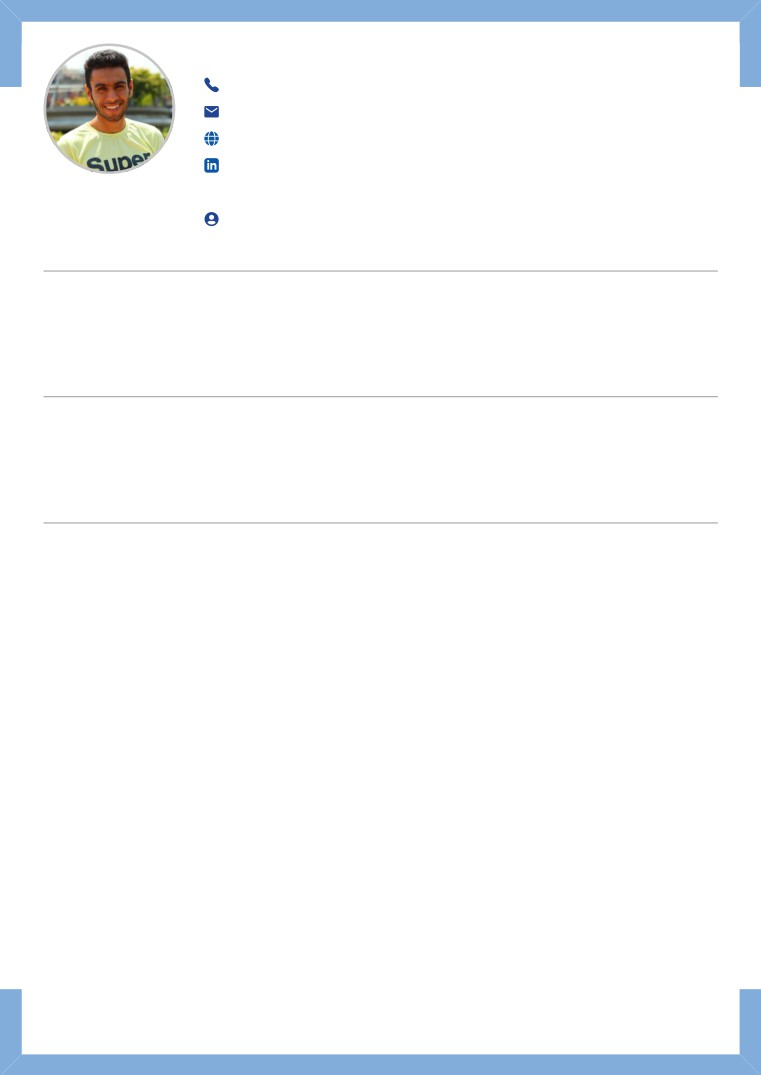
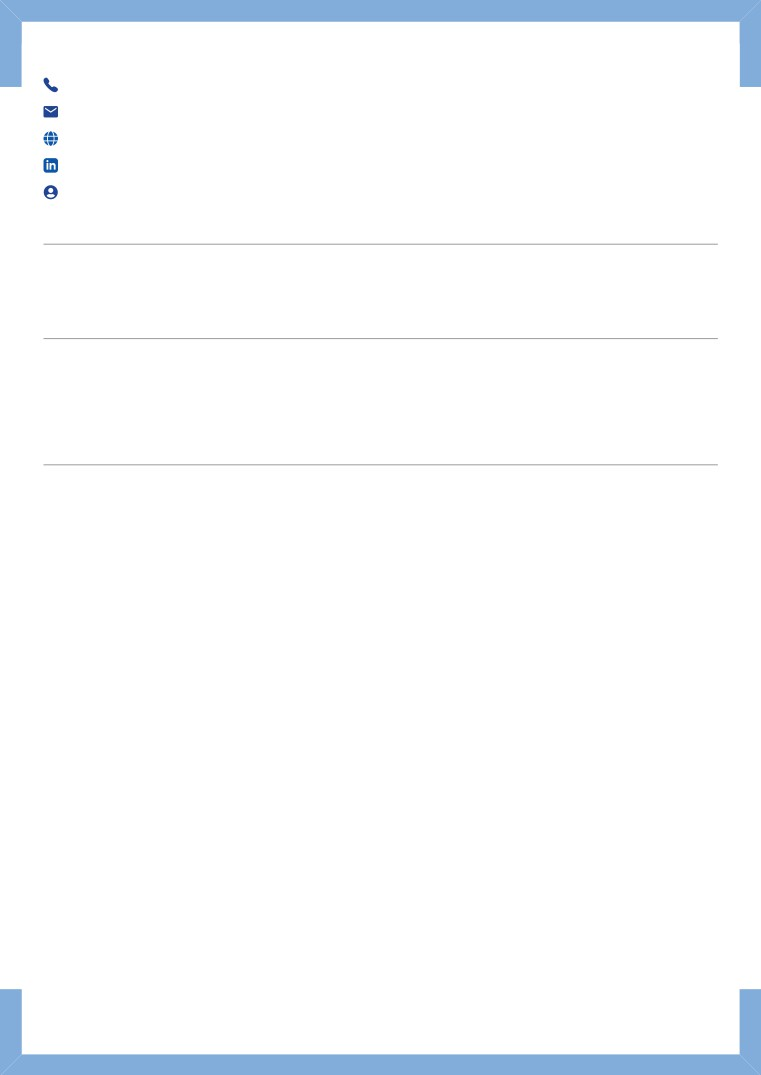
update template

Changed region(s): [[0.0604, 0.0307, 0.2418, 0.1842], [0.272, 0.0614, 0.3022, 0.2149]]

diff --git a/index.html b/index.html
@@ -8,8 +8,8 @@ span.cls_004{font-family:Arial,serif;font-size:10.6px;color:rgb(86,86,86);font-w
 div.cls_004{font-family:Arial,serif;font-size:10.6px;color:rgb(86,86,86);font-weight:normal;font-style:normal;text-decoration: none}
 span.cls_005{font-family:Arial,serif;font-size:10.6px;color:rgb(86,86,86);font-weight:bold;font-style:normal;text-decoration: none}
 div.cls_005{font-family:Arial,serif;font-size:10.6px;color:rgb(86,86,86);font-weight:bold;font-style:normal;text-decoration: none}
-span.cls_015{font-family:Arial,serif;font-size:10.6px;color:rgb(86,86,86);font-weight:normal;font-style:normal;text-decoration: underline}
-div.cls_015{font-family:Arial,serif;font-size:10.6px;color:rgb(86,86,86);font-weight:normal;font-style:normal;text-decoration: none}
+span.cls_014{font-family:Arial,serif;font-size:10.6px;color:rgb(86,86,86);font-weight:normal;font-style:normal;text-decoration: underline}
+div.cls_014{font-family:Arial,serif;font-size:10.6px;color:rgb(86,86,86);font-weight:normal;font-style:normal;text-decoration: none}
 span.cls_002{font-family:Arial,serif;font-size:12.1px;color:rgb(11,86,165);font-weight:bold;font-style:normal;text-decoration: none}
 div.cls_002{font-family:Arial,serif;font-size:12.1px;color:rgb(11,86,165);font-weight:bold;font-style:normal;text-decoration: none}
 span.cls_006{font-family:Arial,serif;font-size:12.1px;color:rgb(11,86,165);font-weight:normal;font-style:normal;text-decoration: none}
@@ -20,14 +20,12 @@ span.cls_008{font-family:Arial,serif;font-size:10.6px;color:rgb(102,102,102);fon
 div.cls_008{font-family:Arial,serif;font-size:10.6px;color:rgb(102,102,102);font-weight:normal;font-style:normal;text-decoration: none}
 span.cls_009{font-family:Arial,serif;font-size:10.6px;color:rgb(102,102,102);font-weight:bold;font-style:normal;text-decoration: none}
 div.cls_009{font-family:Arial,serif;font-size:10.6px;color:rgb(102,102,102);font-weight:bold;font-style:normal;text-decoration: none}
-span.cls_014{font-family:Arial,serif;font-size:10.6px;color:rgb(17,84,204);font-weight:normal;font-style:normal;text-decoration: underline}
-div.cls_014{font-family:Arial,serif;font-size:10.6px;color:rgb(17,84,204);font-weight:normal;font-style:normal;text-decoration: none}
+span.cls_013{font-family:Arial,serif;font-size:10.6px;color:rgb(17,84,204);font-weight:normal;font-style:normal;text-decoration: underline}
+div.cls_013{font-family:Arial,serif;font-size:10.6px;color:rgb(17,84,204);font-weight:normal;font-style:normal;text-decoration: none}
 span.cls_011{font-family:Arial,serif;font-size:10.6px;color:rgb(66,66,66);font-weight:normal;font-style:normal;text-decoration: none}
 div.cls_011{font-family:Arial,serif;font-size:10.6px;color:rgb(66,66,66);font-weight:normal;font-style:normal;text-decoration: none}
 span.cls_012{font-family:"DejaVu Sans",serif;font-size:7.5px;color:rgb(130,172,216);font-weight:normal;font-style:normal;text-decoration: none}
 div.cls_012{font-family:"DejaVu Sans",serif;font-size:7.5px;color:rgb(130,172,216);font-weight:normal;font-style:normal;text-decoration: none}
-span.cls_013{font-family:Arial,serif;font-size:10.6px;color:rgb(79,75,72);font-weight:normal;font-style:normal;text-decoration: none}
-div.cls_013{font-family:Arial,serif;font-size:10.6px;color:rgb(79,75,72);font-weight:normal;font-style:normal;text-decoration: none}
 -->
 </style>
 <script type="text/javascript" src="files/wz_jsgraphics.js"></script>
@@ -36,138 +34,68 @@ div.cls_013{font-family:Arial,serif;font-size:10.6px;color:rgb(79,75,72);font-we
 <div style="position:absolute;left:50%;margin-left:-297px;top:0px;width:595px;height:841px;border-style:outset;overflow:hidden">
 <div style="position:absolute;left:0px;top:0px">
 <img src="files/background1.jpg" width=595 height=841></div>
-<div style="position:absolute;left:159.76px;top:31.20px" class="cls_003"><span class="cls_003">Mohammaderfan Arefimoghaddam</span></div>
-<div style="position:absolute;left:173.93px;top:59.05px" class="cls_004"><span class="cls_004">(+98) 9211686115</span></div>
-<div style="position:absolute;left:173.93px;top:80.05px" class="cls_005"><span class="cls_005">Email address:</span><span class="cls_004"> </span><span class="cls_015">marefimoghaddam@unixerr.com</span></div>
-<div style="position:absolute;left:173.93px;top:101.05px" class="cls_005"><span class="cls_005">Website:</span><span class="cls_004"> </span><A HREF="https://unixerr.com/">https://unixerr.com</A> </span></div>
-<div style="position:absolute;left:173.93px;top:122.05px" class="cls_005"><span class="cls_005">LinkedIn :</span><span class="cls_004"> </span><A HREF="https://www.linkedin.com/in/mohammaderfan-/">https://www.linkedin.com/in/mohammaderfan-arefimoghaddam-750009121</A> </span></div>
-<div style="position:absolute;left:173.93px;top:164.05px" class="cls_005"><span class="cls_005">Github: </span><span class="cls_004"> </span><A HREF="https://github.com/wildonion/">https://github.com/wildonion</A> </span></div>
-<div style="position:absolute;left:34.02px;top:196.41px" class="cls_002"><span class="cls_002">EDUCATION AND TRAINING</span></div>
-<div style="position:absolute;left:34.02px;top:221.70px" class="cls_006"><span class="cls_006">B.Sci. in Computer Science</span></div>
-<div style="position:absolute;left:34.02px;top:236.61px" class="cls_005"><span class="cls_005">University of Mazandaran, Babolsar, Iran</span><span class="cls_004"> [ 2015 - 2020 ]</span></div>
-<div style="position:absolute;left:34.02px;top:266.33px" class="cls_004"><span class="cls_004">CGPA: 14.33/20</span></div>
-<div style="position:absolute;left:34.02px;top:294.74px" class="cls_002"><span class="cls_002">RESEARCH INTERESTS</span></div>
-<div style="position:absolute;left:34.02px;top:320.29px" class="cls_007"><span class="cls_007">Applied AI</span></div>
-<div style="position:absolute;left:55.87px;top:338.82px" class="cls_004"><span class="cls_004">◦ </span><span class="cls_008">Artifcial Intelligence (</span><span class="cls_009">AI</span><span class="cls_008">) in Neuroscience</span></div>
-<div style="position:absolute;left:55.87px;top:351.94px" class="cls_004"><span class="cls_004">◦ </span><span class="cls_008">Natural language Processing (</span><span class="cls_009">NLP)</span><span class="cls_008"> in Artifcial Intelligence (</span><span class="cls_009">AI</span><span class="cls_008">)</span></div>
-<div style="position:absolute;left:55.87px;top:365.07px" class="cls_004"><span class="cls_004">◦ </span><span class="cls_009">VR</span><span class="cls_008"> and </span><span class="cls_009">AR</span><span class="cls_008"> Developing using Artifcial Intelligence (</span><span class="cls_009">AI</span><span class="cls_008">)</span></div>
-<div style="position:absolute;left:34.02px;top:393.48px" class="cls_002"><span class="cls_002">PROJECTS</span></div>
-<div style="position:absolute;left:34.02px;top:419.03px" class="cls_007"><span class="cls_007">uniXerr</span></div>
-<div style="position:absolute;left:34.02px;top:434.72px" class="cls_004"><span class="cls_004">[ 01/2020 - Current ]</span></div>
-<div style="position:absolute;left:34.02px;top:453.52px" class="cls_014"><span class="cls_014"> </span><A HREF="https://github.com/wildonion/unixerr/">https://github.com/wildonion/uniXerr</A> </div>
-<div style="position:absolute;left:34.02px;top:483.39px" class="cls_007"><span class="cls_007">coniXerr</span></div>
-<div style="position:absolute;left:34.02px;top:499.09px" class="cls_004"><span class="cls_004">[ 06/2020 - Current ]</span></div>
-<div style="position:absolute;left:34.02px;top:517.88px" class="cls_014"><span class="cls_014"> </span><A HREF="https://github.com/wildonion/coinixerr/">https://github.com/wildonion/coiniXerr</A> </div>
-<div style="position:absolute;left:34.02px;top:547.75px" class="cls_007"><span class="cls_007">ColdRice</span></div>
-<div style="position:absolute;left:34.02px;top:563.45px" class="cls_004"><span class="cls_004">[ 06/2020 - Current ]</span></div>
-<div style="position:absolute;left:36.93px;top:582.24px" class="cls_014"><span class="cls_014"> </span><A HREF="https://github.com/wildonion/coldrice/">https://github.com/wildonion/ColdRice</A> </div>
-<div style="position:absolute;left:34.02px;top:612.11px" class="cls_007"><span class="cls_007">Katyusha</span></div>
-<div style="position:absolute;left:34.02px;top:627.81px" class="cls_004"><span class="cls_004">[ 06/2020 - Current ]</span></div>
-<div style="position:absolute;left:34.02px;top:646.61px" class="cls_014"><span class="cls_014"> </span><A HREF="https://github.com/wildonion/katyusha/">https://github.com/wildonion/katyusha</A> </div>
-<div style="position:absolute;left:34.02px;top:676.47px" class="cls_007"><span class="cls_007">CDS Apply - v1</span></div>
-<div style="position:absolute;left:34.02px;top:692.17px" class="cls_004"><span class="cls_004">[ 01/2019 - 07/2019 ]</span></div>
-<div style="position:absolute;left:34.02px;top:710.96px" class="cls_011"><span class="cls_011">Cando Study Abroad & Student Consultancy Institute</span></div>
-<div style="position:absolute;left:34.02px;top:729.76px" class="cls_014"><span class="cls_014"> </span><A HREF="https://github.com/yucatanteam/cds/">https://github.com/YucatanTeam/cds</A> </div>
-<div style="position:absolute;left:544.42px;top:808.64px" class="cls_012"><span class="cls_012">1 / 4</span></div>
+<div style="position:absolute;left:34.02px;top:31.20px" class="cls_003"><span class="cls_003">Mohammaderfan Arefimoghaddam</span></div>
+<div style="position:absolute;left:48.19px;top:59.05px" class="cls_004"><span class="cls_004">(+98) 9211686115</span></div>
+<div style="position:absolute;left:48.19px;top:80.05px" class="cls_005"><span class="cls_005">Email address:</span><span class="cls_004"> </span><span class="cls_014">marefimoghaddam@unixerr.com</span></div>
+<div style="position:absolute;left:48.19px;top:101.05px" class="cls_005"><span class="cls_005">Website:</span><span class="cls_004"> </span><A HREF="https://unixerr.com/">https://unixerr.com</A> </span></div>
+<div style="position:absolute;left:48.19px;top:122.05px" class="cls_005"><span class="cls_005">LinkedIn:</span><span class="cls_004"> </span><A HREF="https://www.linkedin.com/in/mohammaderfan-arefimoghaddam-750009121/">https://www.linkedin.com/in/mohammaderfan-arefimoghaddam-750009121/</A> </span></div>
+<div style="position:absolute;left:48.19px;top:143.05px" class="cls_005"><span class="cls_005">Github:</span><span class="cls_004"> </span><A HREF="https://github.com/wildonion/">https://github.com/wildonion</A> </span></div>
+<div style="position:absolute;left:34.02px;top:175.41px" class="cls_002"><span class="cls_002">EDUCATION AND TRAINING</span></div>
+<div style="position:absolute;left:34.02px;top:200.70px" class="cls_006"><span class="cls_006">B.Sci. in Computer Science</span></div>
+<div style="position:absolute;left:34.02px;top:215.61px" class="cls_005"><span class="cls_005">University of Mazandaran, Babolsar, Iran</span><span class="cls_004"> [ 2015 - 2020 ]</span></div>
+<div style="position:absolute;left:34.02px;top:249.28px" class="cls_002"><span class="cls_002">RESEARCH INTERESTS</span></div>
+<div style="position:absolute;left:34.02px;top:274.82px" class="cls_007"><span class="cls_007">Applied AI</span></div>
+<div style="position:absolute;left:55.87px;top:293.36px" class="cls_004"><span class="cls_004">◦ </span><span class="cls_008">Artifcial Intelligence (</span><span class="cls_009">AI</span><span class="cls_008">) in Neuroscience</span></div>
+<div style="position:absolute;left:55.87px;top:306.48px" class="cls_004"><span class="cls_004">◦ </span><span class="cls_008">Natural language Processing (</span><span class="cls_009">NLP)</span><span class="cls_008"> in Artifcial Intelligence (</span><span class="cls_009">AI</span><span class="cls_008">)</span></div>
+<div style="position:absolute;left:55.87px;top:319.61px" class="cls_004"><span class="cls_004">◦ </span><span class="cls_009">VR</span><span class="cls_008"> and </span><span class="cls_009">AR</span><span class="cls_008"> Developing using Artifcial Intelligence (</span><span class="cls_009">AI</span><span class="cls_008">)</span></div>
+<div style="position:absolute;left:34.02px;top:348.02px" class="cls_002"><span class="cls_002">PROJECTS</span></div>
+<div style="position:absolute;left:34.02px;top:373.56px" class="cls_007"><span class="cls_007">uniXerr</span></div>
+<div style="position:absolute;left:34.02px;top:389.26px" class="cls_004"><span class="cls_004">[ 01/2020 - Current ]</span></div>
+<div style="position:absolute;left:34.02px;top:408.05px" class="cls_013"><span class="cls_013"> </span><A HREF="https://github.com/wildonion/unixerr/">https://github.com/wildonion/uniXerr</A> </div>
+<div style="position:absolute;left:34.02px;top:437.93px" class="cls_007"><span class="cls_007">coniXerr</span></div>
+<div style="position:absolute;left:34.02px;top:453.62px" class="cls_004"><span class="cls_004">[ 06/2020 - Current ]</span></div>
+<div style="position:absolute;left:34.02px;top:472.42px" class="cls_013"><span class="cls_013"> </span><A HREF="https://github.com/wildonion/coinixerr/">https://github.com/wildonion/coiniXerr</A> </div>
+<div style="position:absolute;left:34.02px;top:502.29px" class="cls_007"><span class="cls_007">ColdRice</span></div>
+<div style="position:absolute;left:34.02px;top:517.98px" class="cls_004"><span class="cls_004">[ 06/2020 - Current ]</span></div>
+<div style="position:absolute;left:36.93px;top:536.78px" class="cls_013"><span class="cls_013"> </span><A HREF="https://github.com/wildonion/coldrice/">https://github.com/wildonion/ColdRice</A> </div>
+<div style="position:absolute;left:34.02px;top:566.65px" class="cls_007"><span class="cls_007">Katyusha</span></div>
+<div style="position:absolute;left:34.02px;top:582.35px" class="cls_004"><span class="cls_004">[ 06/2020 - Current ]</span></div>
+<div style="position:absolute;left:34.02px;top:601.14px" class="cls_013"><span class="cls_013"> </span><A HREF="https://github.com/wildonion/katyusha/">https://github.com/wildonion/katyusha</A> </div>
+<div style="position:absolute;left:34.02px;top:631.01px" class="cls_007"><span class="cls_007">CDS Apply - v1</span></div>
+<div style="position:absolute;left:34.02px;top:646.71px" class="cls_004"><span class="cls_004">[ 01/2019 - 07/2019 ]</span></div>
+<div style="position:absolute;left:34.02px;top:665.50px" class="cls_011"><span class="cls_011">Cando Study Abroad & Student Consultancy Institute</span></div>
+<div style="position:absolute;left:34.02px;top:684.30px" class="cls_013"><span class="cls_013"> </span><A HREF="https://github.com/yucatanteam/cds/">https://github.com/YucatanTeam/cds</A> </div>
+<div style="position:absolute;left:34.02px;top:714.17px" class="cls_007"><span class="cls_007">CDS Apply - v2</span></div>
+<div style="position:absolute;left:34.02px;top:729.86px" class="cls_004"><span class="cls_004">[ 11/2019 - Current ]</span></div>
+<div style="position:absolute;left:34.02px;top:748.66px" class="cls_011"><span class="cls_011">Cando Study Abroad & Student Consultancy Institute</span></div>
+<div style="position:absolute;left:34.02px;top:767.45px" class="cls_013"><span class="cls_013"> </span><A HREF="https://github.com/yucatanteam/cdsapply.com/">https://github.com/YucatanTeam/cdsapply.com</A> </div>
+<div style="position:absolute;left:544.42px;top:808.64px" class="cls_012"><span class="cls_012">1 / 2</span></div>
 </div>
 <div style="position:absolute;left:50%;margin-left:-297px;top:851px;width:595px;height:841px;border-style:outset;overflow:hidden">
 <div style="position:absolute;left:0px;top:0px">
 <img src="files/background2.jpg" width=595 height=841></div>
-<div style="position:absolute;left:34.02px;top:32.22px" class="cls_007"><span class="cls_007">CDS Apply - v2</span></div>
-<div style="position:absolute;left:34.02px;top:47.92px" class="cls_004"><span class="cls_004">[ 11/2019 - Current ]</span></div>
-<div style="position:absolute;left:34.02px;top:66.71px" class="cls_011"><span class="cls_011">Cando Study Abroad & Student Consultancy Institute</span></div>
-<div style="position:absolute;left:34.02px;top:85.51px" class="cls_014"><span class="cls_014"> </span><A HREF="https://github.com/yucatanteam/cdsapply.com/">https://github.com/YucatanTeam/cdsapply.com</A> </div>
-<div style="position:absolute;left:34.02px;top:113.92px" class="cls_002"><span class="cls_002">NETWORKS AND MEMBERSHIPS</span></div>
-<div style="position:absolute;left:34.02px;top:139.46px" class="cls_007"><span class="cls_007">Theatre Acting</span></div>
-<div style="position:absolute;left:34.02px;top:155.16px" class="cls_004"><span class="cls_004">[ University of Mazandaran, Babolsar, Iran, 10/2016 - 03/2018 ]</span></div>
-<div style="position:absolute;left:55.87px;top:173.96px" class="cls_004"><span class="cls_004">◦ </span><span class="cls_008">Member of Student Theatre Club</span></div>
-<div style="position:absolute;left:55.87px;top:187.08px" class="cls_004"><span class="cls_004">◦ </span><span class="cls_008">Leading Man Actor “</span><span class="cls_009">Periana</span><span class="cls_008">” Theatre Show</span></div>
-<div style="position:absolute;left:55.87px;top:200.21px" class="cls_004"><span class="cls_004">◦ </span><span class="cls_008">Leading Man Actor “</span><span class="cls_009">Eteraf Dar Adamestan</span><span class="cls_008">” Theatre Show</span></div>
-<div style="position:absolute;left:34.02px;top:230.08px" class="cls_007"><span class="cls_007">Project Manager</span></div>
-<div style="position:absolute;left:34.02px;top:245.77px" class="cls_004"><span class="cls_004">[ University of Mazandaran, Babolsar, Iran, 10/2016 - 12/2016 ]</span></div>
-<div style="position:absolute;left:55.87px;top:264.57px" class="cls_004"><span class="cls_004">◦ </span><span class="cls_008">Managing “</span><span class="cls_009">unierr</span><span class="cls_008">” Project as the Main Member of Computer Science Student Association (CSSA)</span></div>
-<div style="position:absolute;left:55.87px;top:277.69px" class="cls_004"><span class="cls_004">◦ </span><span class="cls_008">Advisory Project Manager of </span><span class="cls_009">IT</span><span class="cls_008"> Center</span></div>
-<div style="position:absolute;left:34.02px;top:306.11px" class="cls_002"><span class="cls_002">EXPERIENCES</span></div>
-<div style="position:absolute;left:34.02px;top:331.65px" class="cls_007"><span class="cls_007">Workshop Instructor</span></div>
-<div style="position:absolute;left:34.02px;top:347.35px" class="cls_004"><span class="cls_004">[ 08/2017 - 09/2019 ]</span></div>
-<div style="position:absolute;left:34.02px;top:366.14px" class="cls_011"><span class="cls_011">University of Mazandaran, Babolsar, Iran</span></div>
-<div style="position:absolute;left:55.87px;top:384.94px" class="cls_004"><span class="cls_004">◦ </span><span class="cls_008">Holding </span><span class="cls_014">Blockchain Technology and Cryptocurrencies</span><span class="cls_008"> Workshops for Students and Professors</span></div>
-<div style="position:absolute;left:55.87px;top:398.06px" class="cls_004"><span class="cls_004">◦ </span><span class="cls_008">Holding Python Programming </span><span class="cls_009">101</span><span class="cls_008"> and RESTful API Deployment Classes for Professors' Kids</span></div>
-<div style="position:absolute;left:34.02px;top:427.93px" class="cls_007"><span class="cls_007">Freelance Software Engineer</span></div>
-<div style="position:absolute;left:34.02px;top:443.63px" class="cls_004"><span class="cls_004">[ 03/2015 - 07/2020 ]</span></div>
-<div style="position:absolute;left:34.02px;top:462.43px" class="cls_011"><span class="cls_011">Mazandaran Province, Iran</span></div>
-<div style="position:absolute;left:55.87px;top:481.22px" class="cls_004"><span class="cls_004">◦ </span><span class="cls_008">Back-End Developer of </span><span class="cls_014">Cando Study Abroad & Student Consultancy Institute</span><span class="cls_008"> Website at Yucatán Team</span></div>
-<div style="position:absolute;left:55.87px;top:494.34px" class="cls_004"><span class="cls_004">◦ </span><span class="cls_008">Back-End Developer of “</span><span class="cls_014">hayatemoon</span><span class="cls_008">” Website at Yucatán Team</span></div>
-<div style="position:absolute;left:55.87px;top:507.47px" class="cls_004"><span class="cls_004">◦ </span><span class="cls_008">Back-End Developer of “</span><span class="cls_014">darsijat</span><span class="cls_008">” Telegram-bot at Yucatán Team</span></div>
-<div style="position:absolute;left:55.87px;top:520.59px" class="cls_004"><span class="cls_004">◦ </span><span class="cls_008">Back-End Developer of “</span><span class="cls_014">samane</span><span class="cls_008">” Desktop App at Yucatán Team</span></div>
-<div style="position:absolute;left:55.87px;top:533.72px" class="cls_004"><span class="cls_004">◦ </span><span class="cls_008">Developing Cross-platform Applications using Node Js, Dart and Python.</span></div>
-<div style="position:absolute;left:55.87px;top:546.84px" class="cls_004"><span class="cls_004">◦ </span><span class="cls_008">Designing Algorithms and Patterns, Understanding Programming Paradigms, Deep Learning Architecture,</span></div>
-<div style="position:absolute;left:64.02px;top:559.97px" class="cls_009"><span class="cls_009">AI</span><span class="cls_008"> and Machine Learning Algorithms in </span><span class="cls_009">NLP</span><span class="cls_008"> and Image Processing</span></div>
-<div style="position:absolute;left:55.87px;top:573.09px" class="cls_004"><span class="cls_004">◦ </span><span class="cls_008">Working with Linux to Design Cross-platform Backdoors and Viruses at low-level State using Rust, C++ and</span></div>
-<div style="position:absolute;left:64.02px;top:586.22px" class="cls_008"><span class="cls_008">Python</span></div>
-<div style="position:absolute;left:34.02px;top:629.21px" class="cls_007"><span class="cls_007">Teacher Assistant</span></div>
-<div style="position:absolute;left:34.02px;top:644.91px" class="cls_004"><span class="cls_004">[ 09/2018 - 12/2018 ]</span></div>
-<div style="position:absolute;left:34.02px;top:663.71px" class="cls_011"><span class="cls_011">University of Mazandaran, Babolsar, Iran</span></div>
-<div style="position:absolute;left:55.87px;top:682.50px" class="cls_004"><span class="cls_004">◦ </span><span class="cls_008">Teacher Assistant of Fundamental & Advanced Python Programming</span></div>
-<div style="position:absolute;left:55.87px;top:695.63px" class="cls_004"><span class="cls_004">◦</span></div>
-<div style="position:absolute;left:64.02px;top:695.63px" class="cls_008"><span class="cls_008">Teacher Assistant of Fundamental C++ Programming</span></div>
-<div style="position:absolute;left:544.42px;top:808.64px" class="cls_012"><span class="cls_012">2 / 4</span></div>
-</div>
-<div style="position:absolute;left:50%;margin-left:-297px;top:1702px;width:595px;height:841px;border-style:outset;overflow:hidden">
-<div style="position:absolute;left:0px;top:0px">
-<img src="files/background3.jpg" width=595 height=841></div>
-<div style="position:absolute;left:34.02px;top:30.77px" class="cls_002"><span class="cls_002">PROFESSIONAL ACTIVITIES</span></div>
-<div style="position:absolute;left:34.02px;top:56.31px" class="cls_007"><span class="cls_007">AI Expert</span></div>
-<div style="position:absolute;left:34.02px;top:72.01px" class="cls_004"><span class="cls_004">[ 09/2019 - Current ]</span></div>
-<div style="position:absolute;left:34.02px;top:90.80px" class="cls_011"><span class="cls_011">University of Mazandaran, Babolsar, Iran</span></div>
-<div style="position:absolute;left:55.87px;top:109.59px" class="cls_004"><span class="cls_004">◦ </span><span class="cls_008">Working Independently in the Field of Artifcial Intelligence (</span><span class="cls_009">AI</span><span class="cls_008">) to Implement Abstract Ideas, Applications</span></div>
-<div style="position:absolute;left:64.02px;top:122.72px" class="cls_008"><span class="cls_008">and Projects as a </span><span class="cls_009">CTO</span><span class="cls_008"> at Yucatán Team</span></div>
-<div style="position:absolute;left:55.87px;top:135.84px" class="cls_004"><span class="cls_004">◦ </span><span class="cls_008">Developing AI Production (research) Projects using TensorFlow Serving (Pytorch).</span></div>
-<div style="position:absolute;left:55.87px;top:148.97px" class="cls_004"><span class="cls_004">◦ </span><span class="cls_008">Tutoring “</span><span class="cls_009">An Introduction to</span><span class="cls_008"> </span><span class="cls_009">Deep Learning Algorithms</span><span class="cls_008">” to Teachers and Professors</span></div>
-<div style="position:absolute;left:34.02px;top:178.84px" class="cls_007"><span class="cls_007">AI Self-learner</span></div>
-<div style="position:absolute;left:34.02px;top:194.54px" class="cls_004"><span class="cls_004">[ 08/2018 - 09/2019 ]</span></div>
-<div style="position:absolute;left:34.02px;top:213.33px" class="cls_011"><span class="cls_011">University of Mazandaran, Babolsar, Iran</span></div>
-<div style="position:absolute;left:55.87px;top:232.13px" class="cls_004"><span class="cls_004">◦ </span><span class="cls_008">Learning Various ML, DL and Statistics Algorithms for a Year in the Field of Artifcial Intelligence (</span><span class="cls_009">AI</span><span class="cls_008">)</span></div>
-<div style="position:absolute;left:55.87px;top:245.25px" class="cls_004"><span class="cls_004">◦ </span><span class="cls_008">Presenting an Introduction to </span><span class="cls_014">Reinforcement Learning - DQN</span><span class="cls_008"> in Artifcial Intelligence (</span><span class="cls_009">AI</span><span class="cls_008">) Class of My</span></div>
-<div style="position:absolute;left:64.02px;top:258.38px" class="cls_008"><span class="cls_008">Fourth Year of Bachelor</span></div>
-<div style="position:absolute;left:34.02px;top:286.79px" class="cls_002"><span class="cls_002">SKILLS AND ENDORSEMENTS</span></div>
-<div style="position:absolute;left:34.02px;top:312.34px" class="cls_007"><span class="cls_007">Organizational Skills</span></div>
-<div style="position:absolute;left:34.02px;top:330.87px" class="cls_008"><span class="cls_008">Full-Stack Development, Algorithm Development, API Development, Back-End Web Development, Basic DevOps</span></div>
-<div style="position:absolute;left:34.02px;top:343.99px" class="cls_008"><span class="cls_008">Skills Like VPS Confguration, Docker</span></div>
-<div style="position:absolute;left:34.02px;top:373.86px" class="cls_007"><span class="cls_007">Programming Paradigms</span></div>
-<div style="position:absolute;left:34.02px;top:392.39px" class="cls_008"><span class="cls_008">Asynchronous, Functional, Object-Oriented, Document Object Model (</span><span class="cls_009">DOM</span><span class="cls_008">)</span></div>
-<div style="position:absolute;left:34.02px;top:422.27px" class="cls_007"><span class="cls_007">Mobile Application Development Tools</span></div>
-<div style="position:absolute;left:34.02px;top:440.80px" class="cls_008"><span class="cls_008">Flutter, Dart, Adobe XD</span></div>
-<div style="position:absolute;left:34.02px;top:470.67px" class="cls_007"><span class="cls_007">ML/DL Tools</span></div>
-<div style="position:absolute;left:34.02px;top:489.20px" class="cls_008"><span class="cls_008">sklearn, matplotlib, pandas, numpy, jax, numba, TensorFlow, Keras, Pytorch, SQL, fastapi, fask, MongoDB,</span></div>
-<div style="position:absolute;left:34.02px;top:502.32px" class="cls_008"><span class="cls_008">opencv</span></div>
-<div style="position:absolute;left:34.02px;top:532.19px" class="cls_007"><span class="cls_007">Industry Knowledge and Tools</span></div>
-<div style="position:absolute;left:34.02px;top:550.73px" class="cls_008"><span class="cls_008">Image Processing, Computer Vision, Data Structures, Blockchain Architecture, Algorithms, Natural Language</span></div>
-<div style="position:absolute;left:34.02px;top:563.85px" class="cls_008"><span class="cls_008">Processing (</span><span class="cls_009">NLP</span><span class="cls_008">), Reverse Engineering, git, Linux</span></div>
-<div style="position:absolute;left:34.02px;top:593.72px" class="cls_007"><span class="cls_007">Web Application Development Tools</span></div>
-<div style="position:absolute;left:34.02px;top:612.25px" class="cls_005"><span class="cls_005">Client-side</span></div>
-<div style="position:absolute;left:34.02px;top:631.05px" class="cls_008"><span class="cls_008">Vue JS, Svelte, HTML, CSS, Javascript, ,</span></div>
-<div style="position:absolute;left:34.02px;top:649.84px" class="cls_005"><span class="cls_005">Server-side</span></div>
-<div style="position:absolute;left:34.02px;top:668.64px" class="cls_008"><span class="cls_008">Laravel, Express JS, Node JS, nuxt, sapper, Python-fatspi</span></div>
-<div style="position:absolute;left:34.02px;top:698.50px" class="cls_007"><span class="cls_007">High-level Programming Languages</span></div>
-<div style="position:absolute;left:34.02px;top:717.04px" class="cls_008"><span class="cls_008">PHP, Node JS, Python, Rust, Dart</span></div>
-<div style="position:absolute;left:34.02px;top:746.91px" class="cls_007"><span class="cls_007">Low Level Tools</span></div>
-<div style="position:absolute;left:34.02px;top:765.44px" class="cls_008"><span class="cls_008">C, C++, Ghidra, cython, ctypes, nuitka, numba, Basic Assembly, threading, multiprocessing, socket</span></div>
-<div style="position:absolute;left:544.42px;top:808.64px" class="cls_012"><span class="cls_012">3 / 4</span></div>
-</div>
-<div style="position:absolute;left:50%;margin-left:-297px;top:2553px;width:595px;height:841px;border-style:outset;overflow:hidden">
-<div style="position:absolute;left:0px;top:0px">
-<img src="files/background4.jpg" width=595 height=841></div>
-<div style="position:absolute;left:34.02px;top:32.22px" class="cls_007"><span class="cls_007">Technologies Information</span></div>
-<div style="position:absolute;left:34.02px;top:50.75px" class="cls_008"><span class="cls_008">Blockchain, Artifcial Intelligence (</span><span class="cls_009">AI</span><span class="cls_008">)</span></div>
-<div style="position:absolute;left:34.02px;top:79.16px" class="cls_002"><span class="cls_002">HONOURS AND AWARDS</span></div>
-<div style="position:absolute;left:34.02px;top:104.71px" class="cls_007"><span class="cls_007">Awarded for Best Actor in Leading Roles</span></div>
-<div style="position:absolute;left:34.02px;top:120.41px" class="cls_004"><span class="cls_004">University of Mazandaran, Babolsar, Iran [ </span><span class="cls_013">05/2017</span><span class="cls_004"> ]</span></div>
-<div style="position:absolute;left:34.02px;top:150.28px" class="cls_007"><span class="cls_007">Awarded as the Second Place in ACM Contest</span></div>
-<div style="position:absolute;left:34.02px;top:165.98px" class="cls_004"><span class="cls_004">University of Mazandaran, Babolsar, Iran [ </span><span class="cls_013">03/2015</span><span class="cls_004"> ]</span></div>
-<div style="position:absolute;left:34.02px;top:195.85px" class="cls_007"><span class="cls_007">Awarded Tuition Waiver</span></div>
-<div style="position:absolute;left:34.02px;top:211.54px" class="cls_004"><span class="cls_004">University of Mazandaran, Babolsar, Iran [ </span><span class="cls_013">08/2015</span><span class="cls_004"> ]</span></div>
-<div style="position:absolute;left:544.42px;top:808.64px" class="cls_012"><span class="cls_012">4 / 4</span></div>
+<div style="position:absolute;left:34.02px;top:30.77px" class="cls_002"><span class="cls_002">EXPERIENCES</span></div>
+<div style="position:absolute;left:34.02px;top:56.31px" class="cls_007"><span class="cls_007">Freelance Software Engineer</span></div>
+<div style="position:absolute;left:34.02px;top:72.01px" class="cls_004"><span class="cls_004">[ 03/2015 - 07/2020 ]</span></div>
+<div style="position:absolute;left:34.02px;top:90.80px" class="cls_011"><span class="cls_011">Mazandaran Province, Iran</span></div>
+<div style="position:absolute;left:55.87px;top:109.59px" class="cls_004"><span class="cls_004">◦ </span><span class="cls_008">Back-End Developer of </span><span class="cls_013">Cando Study Abroad & Student Consultancy Institute</span><span class="cls_008"> Website at Yucatán Team</span></div>
+<div style="position:absolute;left:55.87px;top:122.72px" class="cls_004"><span class="cls_004">◦ </span><span class="cls_008">Back-End Developer of “</span><span class="cls_013">hayatemoon</span><span class="cls_008">” Website at Yucatán Team</span></div>
+<div style="position:absolute;left:55.87px;top:135.84px" class="cls_004"><span class="cls_004">◦ </span><span class="cls_008">Back-End Developer of “</span><span class="cls_013">darsijat</span><span class="cls_008">” Telegram-bot at Yucatán Team</span></div>
+<div style="position:absolute;left:55.87px;top:148.97px" class="cls_004"><span class="cls_004">◦ </span><span class="cls_008">Back-End Developer of “</span><span class="cls_013">samane</span><span class="cls_008">” Desktop App at Yucatán Team</span></div>
+<div style="position:absolute;left:55.87px;top:162.09px" class="cls_004"><span class="cls_004">◦ </span><span class="cls_008">Developing Cross-platform Applications using Node Js, Dart and Python.</span></div>
+<div style="position:absolute;left:55.87px;top:175.22px" class="cls_004"><span class="cls_004">◦ </span><span class="cls_008">Designing Algorithms and Patterns, Understanding Programming Paradigms, Deep Learning Architecture,</span></div>
+<div style="position:absolute;left:64.02px;top:188.34px" class="cls_009"><span class="cls_009">AI</span><span class="cls_008"> and Machine Learning Algorithms in </span><span class="cls_009">NLP</span><span class="cls_008"> and Image Processing</span></div>
+<div style="position:absolute;left:55.87px;top:201.47px" class="cls_004"><span class="cls_004">◦ </span><span class="cls_008">Working with Linux to Design Cross-platform Backdoors and Viruses at low-level State using Rust, C++ and</span></div>
+<div style="position:absolute;left:64.02px;top:214.59px" class="cls_008"><span class="cls_008">Python</span></div>
+<div style="position:absolute;left:55.87px;top:227.72px" class="cls_004"><span class="cls_004">◦ </span><span class="cls_008">Working Independently in the Field of Artifcial Intelligence (</span><span class="cls_009">AI</span><span class="cls_008">) to Implement Abstract Ideas, Applications</span></div>
+<div style="position:absolute;left:64.02px;top:240.84px" class="cls_008"><span class="cls_008">and Projects as a </span><span class="cls_009">CTO</span><span class="cls_008"> at Yucatán Team</span></div>
+<div style="position:absolute;left:55.87px;top:253.97px" class="cls_004"><span class="cls_004">◦ </span><span class="cls_008">Developing </span><span class="cls_009">AI</span><span class="cls_008"> Production (research) Projects using TensorFlow Serving (Pytorch)</span></div>
+<div style="position:absolute;left:34.02px;top:282.38px" class="cls_002"><span class="cls_002">SKILLS AND ENDORSEMENTS</span></div>
+<div style="position:absolute;left:34.02px;top:307.93px" class="cls_007"><span class="cls_007">Organizational Skills</span></div>
+<div style="position:absolute;left:34.02px;top:326.46px" class="cls_008"><span class="cls_008">Full-Stack Development, Software Development, DevOps</span></div>
+<div style="position:absolute;left:34.02px;top:356.33px" class="cls_007"><span class="cls_007">Languages</span></div>
+<div style="position:absolute;left:34.02px;top:374.86px" class="cls_008"><span class="cls_008">HTML, CSS, JavaScript, PHP, Node JS, Python, Rust, Dart, Vala, C, C++</span></div>
+<div style="position:absolute;left:544.42px;top:808.64px" class="cls_012"><span class="cls_012">2 / 2</span></div>
 </div>
 
 </body>
